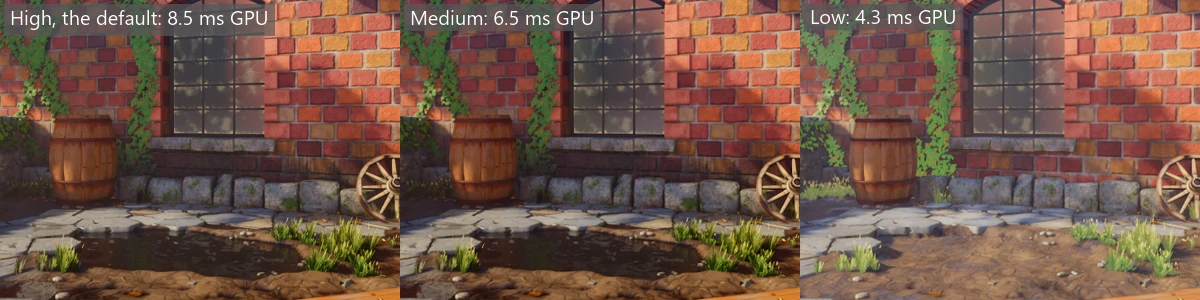
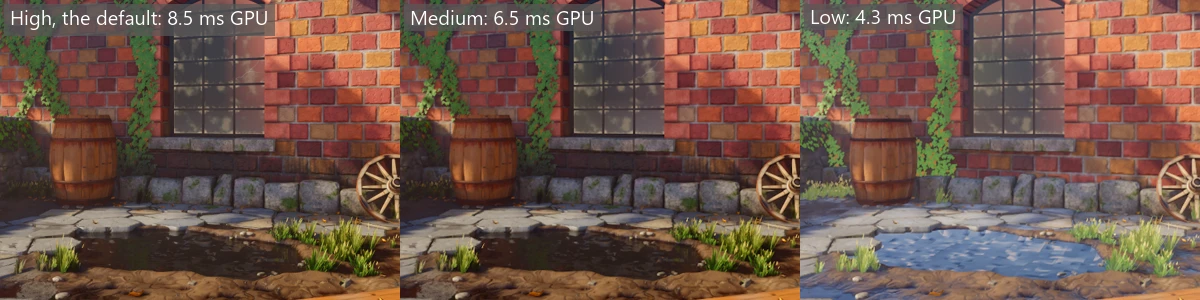
fix: keep puddles and wind on in the Low graphics preset
They cost less than a frame's noise in the Courtyard (Low with both: 3.9 to
4.4 ms of GPU against 4.0 to 4.6 without), and turning puddles off took the
Courtyard's water away.

diff --git a/tests/Super.Tests/GraphicsProfileTests.cs b/tests/Super.Tests/GraphicsProfileTests.cs
@@ -261,6 +261,20 @@ public class GraphicsProfileTests
     [InlineData(GraphicsQuality.Medium)]
     [InlineData(GraphicsQuality.High)]
     [InlineData(GraphicsQuality.Ultra)]
+    public void Every_quality_keeps_the_water_and_the_wind(GraphicsQuality quality)
+    {
+        // They cost next to nothing, and without them the Courtyard's puddle is gone and its grass stands still.
+        var graphics = Graphics.For(quality);
+
+        Assert.True(graphics.Puddles);
+        Assert.True(graphics.Wind);
+    }
+
+    [Theory]
+    [InlineData(GraphicsQuality.Low)]
+    [InlineData(GraphicsQuality.Medium)]
+    [InlineData(GraphicsQuality.High)]
+    [InlineData(GraphicsQuality.Ultra)]
     public void Every_quality_keeps_vsync_on_and_no_frame_limit(GraphicsQuality quality)
     {
         var graphics = Graphics.For(quality);

diff --git a/src/Super/Graphics.cs b/src/Super/Graphics.cs
@@ -282,8 +282,8 @@ public sealed class Graphics
             DepthOfField = false,
             Decals = false,
             VolumetricFog = false,
-            Puddles = false,
-            Wind = false,
+            // Puddles and wind stay on: in the Courtyard each costs less than a frame's noise, and the water is part
+            // of the place, not a finish on it.
             BakeBudget = 1f,
         },
         GraphicsQuality.Medium => new Graphics

diff --git a/docs/rendering.md b/docs/rendering.md
@@ -101,13 +101,14 @@ itself, or offers it in an options menu.
 
 | Quality | What changes from `High` |
 |---|---|
-| `Low` | Render scale 0.75, 1024 shadow maps, 2 cascades, `MeshDetail` 0.5, `ProbeQuality.Low` and a 1 ms bake budget. Off: contact shadows, light shadows, light probes, ambient occlusion, reflections, auto exposure, depth of field, decals, volumetric fog, puddles and wind |
+| `Low` | Render scale 0.75, 1024 shadow maps, 2 cascades, `MeshDetail` 0.5, `ProbeQuality.Low` and a 1 ms bake budget. Off: contact shadows, light shadows, light probes, ambient occlusion, reflections, auto exposure, depth of field, decals and volumetric fog. Puddles and wind stay on, as they cost next to nothing |
 | `Medium` | Render scale 0.85, 3 cascades, `MeshDetail` 0.75, `ProbeQuality.Medium` and a 2 ms bake budget. Off: depth of field and volumetric fog |
 | `Ultra` | 4096 shadow maps and `MeshDetail` 1.5 |
 
 In the Courtyard at 1600 by 900 on an RTX 4060 Ti, a frame takes 8.5 ms of GPU at `High`, 6.5 at
 `Medium` and 4.3 at `Low`. `Ultra` costs about the same as `High` there. `Medium` loses a little
-sharpness; `Low` also loses the puddle, the bounced light and the darkening in corners:
+sharpness; `Low` also loses the bounced light, the darkening in corners and what the puddle
+reflects from the screen, though the puddle stays and still mirrors the sky:
 
 ![The Courtyard's barrel, window and puddle at High, Medium and Low, with the GPU time of each](media/graphics-quality.webp)
 
